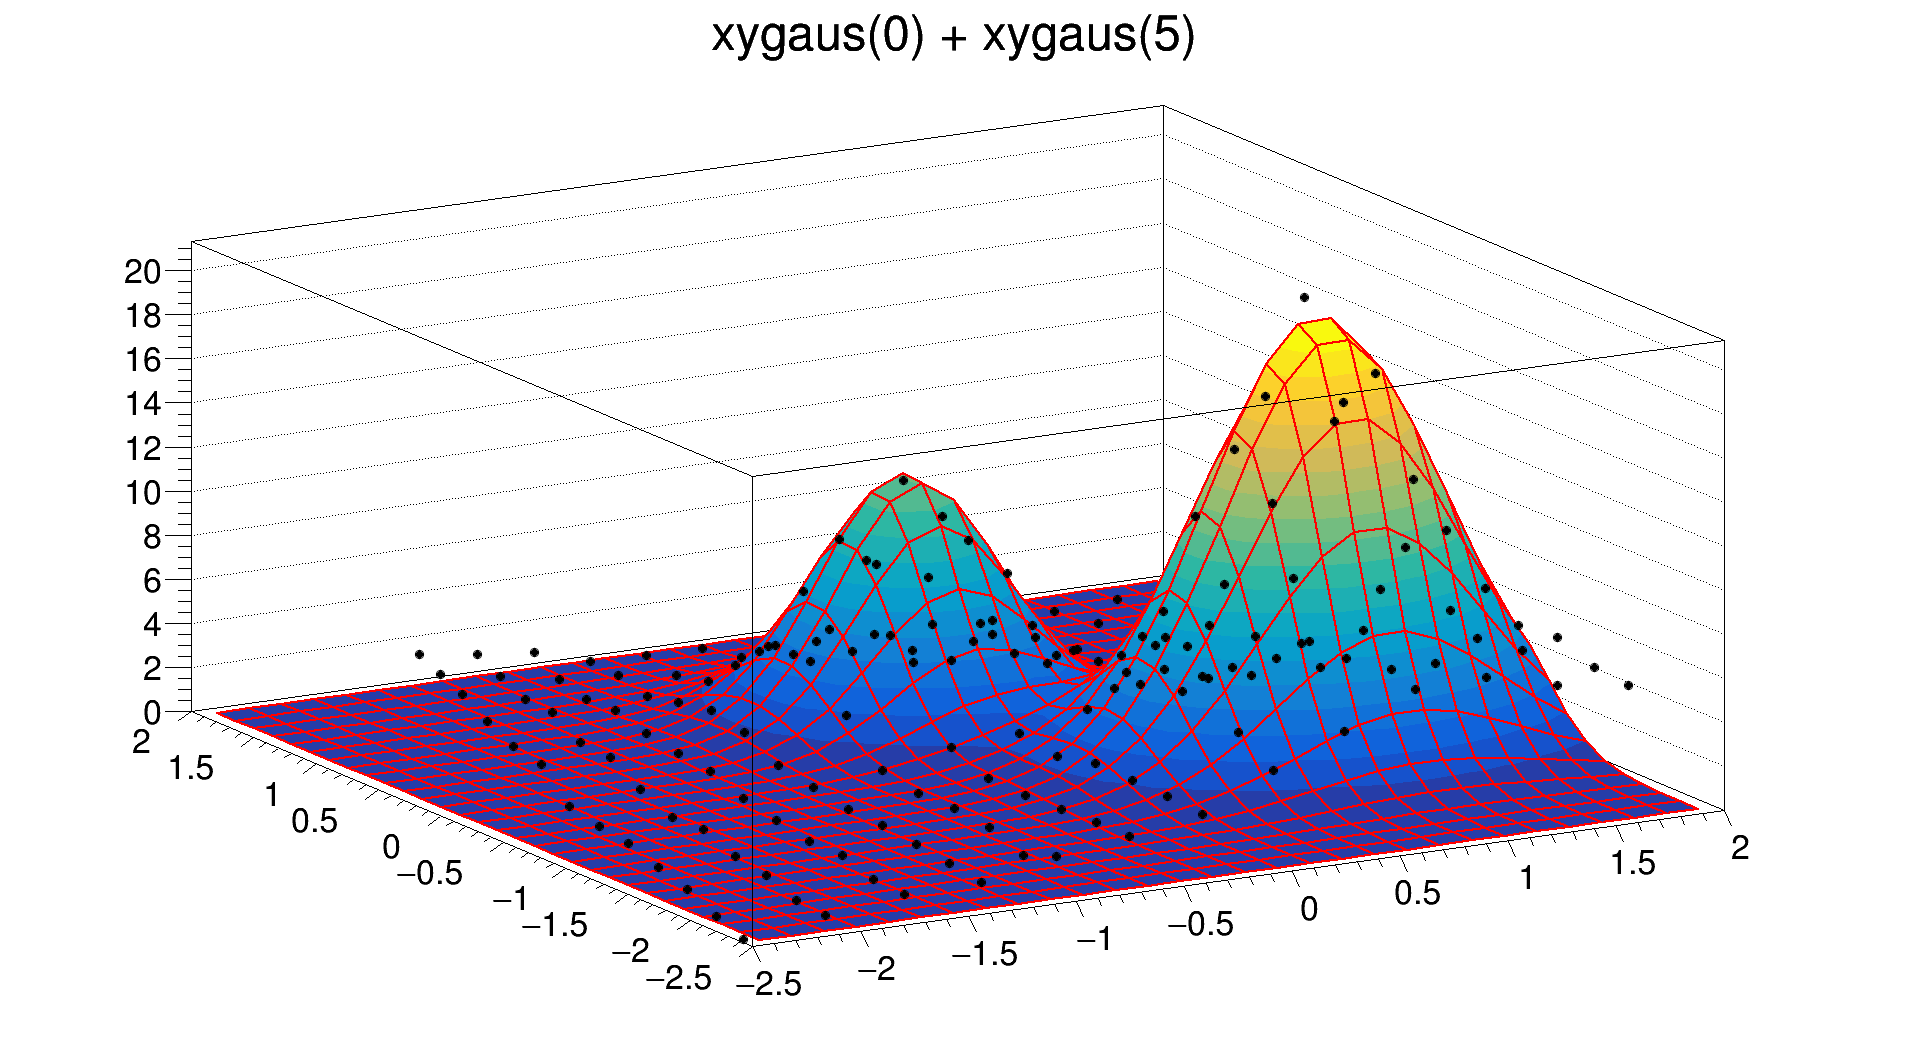
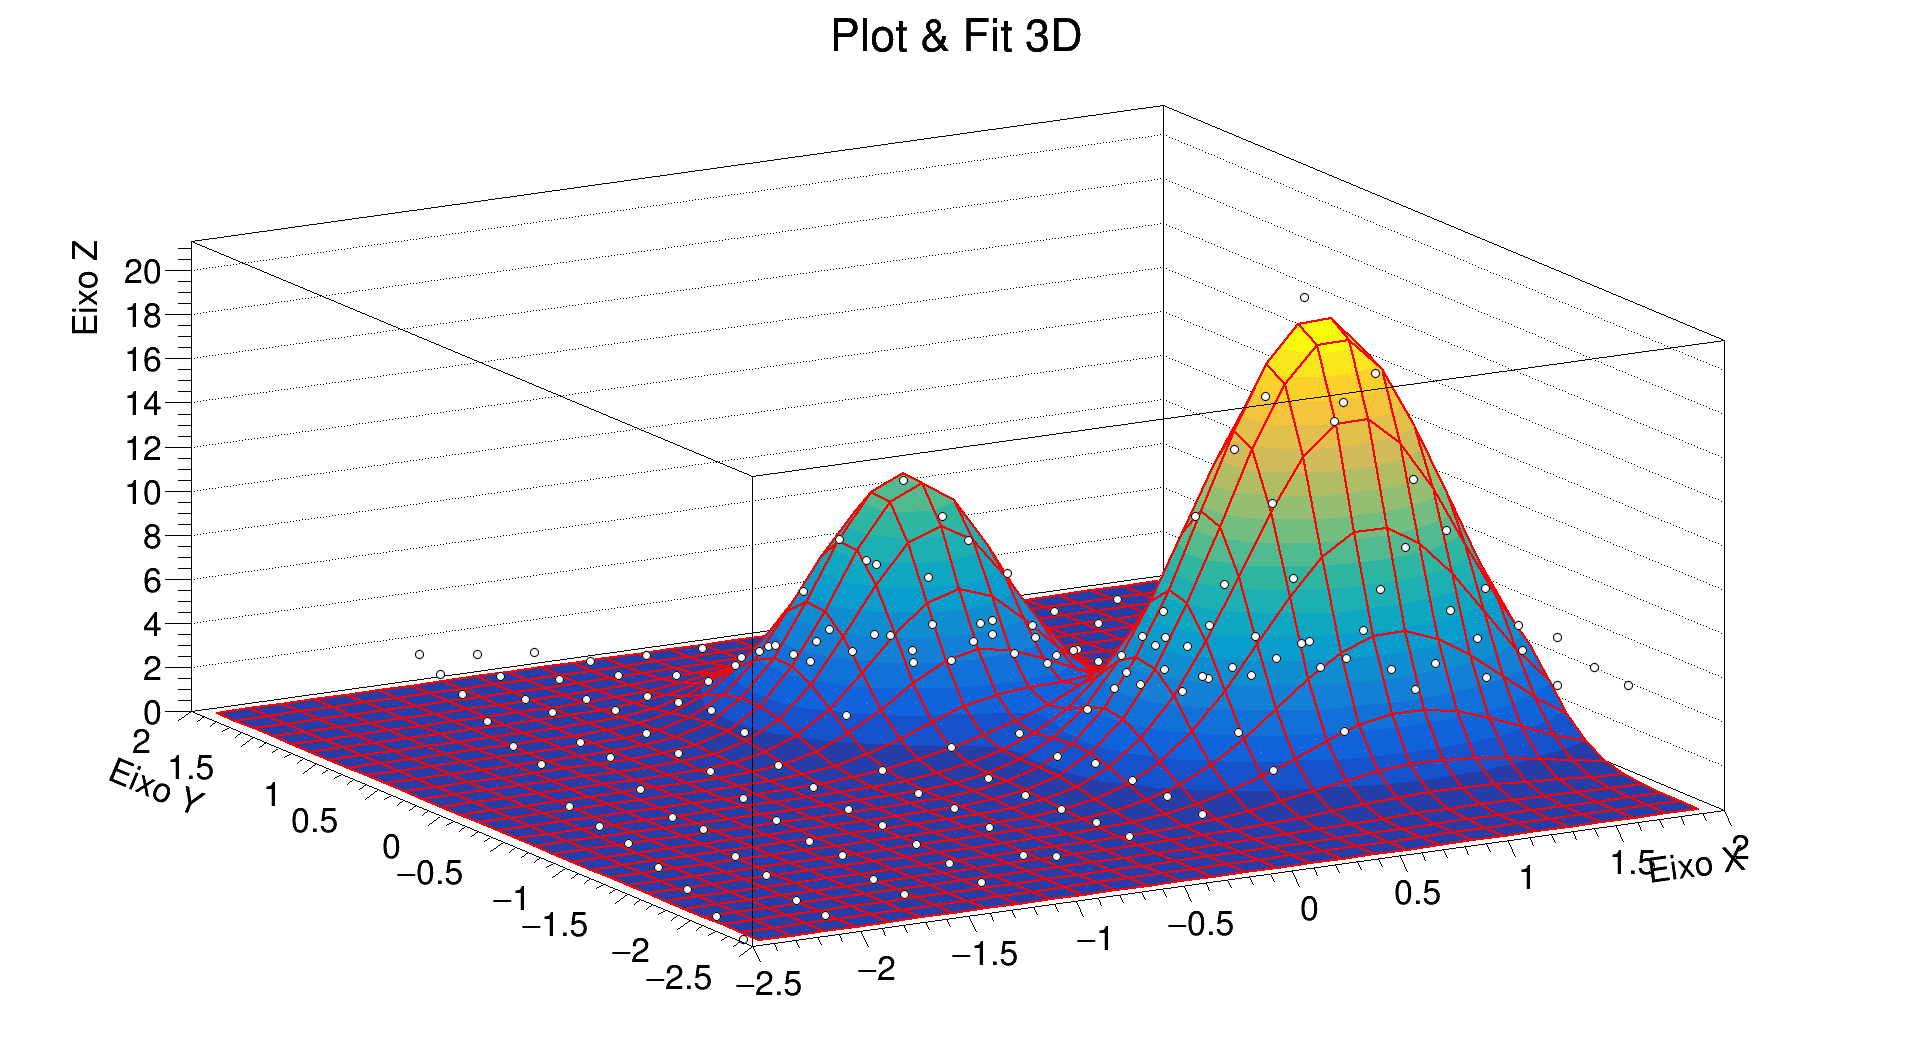
WorkShop ROOT NFIST 12/jan/2022

diff --git a/main/ex_MultiFit.cpp b/main/ex_MultiFit.cpp
@@ -1,0 +1,128 @@
+#include "ReadData.h"
+#include "TStyle.h"
+#include "TAxis.h"
+#include "TGraph.h"
+#include "TCanvas.h"
+#include "TF1.h"
+#include "TRootCanvas.h"
+#include "TApplication.h"
+#include "TGraphErrors.h"
+
+std::vector<double_t *> data_to_vectors(std::vector<std::vector<float>> data)
+{
+    std::vector<double_t *> data_return;
+    int n = data.size();
+    double_t x[n];
+    double_t y[n];
+    double_t ex[n];
+    double_t ey[n];
+
+    for (int i = 0; i < n; i++)
+    {
+        x[i] = data[i][0];
+        y[i] = data[i][1];
+        ex[i] = data[i][2];
+        ey[i] = data[i][3];
+    }
+    data_return.push_back(x);
+    data_return.push_back(y);
+    data_return.push_back(ex);
+    data_return.push_back(ey);
+    return data_return;
+}
+
+int main()
+{
+    ReadData Data1("PET1.txt");
+    ReadData Data2("PET2.txt");
+    ReadData Data3("PET3.txt");
+    auto data1 = Data1.GetData();
+    auto data2 = Data2.GetData();
+    auto data3 = Data3.GetData();
+
+    // Data 1
+    int n1 = data1.size();
+    double_t x1[n1];
+    double_t y1[n1];
+    double_t ex1[n1];
+    double_t ey1[n1];
+
+    for (int i = 0; i < n1; i++)
+    {
+        x1[i] = data1[i][0];
+        y1[i] = data1[i][1];
+        ex1[i] = data1[i][2];
+        ey1[i] = data1[i][3];
+    }
+
+    // Data 2
+    int n2 = data2.size();
+    double_t x2[n2];
+    double_t y2[n2];
+    double_t ex2[n2];
+    double_t ey2[n2];
+
+    for (int i = 0; i < n2; i++)
+    {
+        x2[i] = data2[i][0];
+        y2[i] = data2[i][1];
+        ex2[i] = data2[i][2];
+        ey2[i] = data2[i][3];
+    }
+
+    // Data 2
+    int n3 = data3.size();
+    double_t x3[n3];
+    double_t y3[n3];
+    double_t ex3[n3];
+    double_t ey3[n3];
+
+    for (int i = 0; i < n3; i++)
+    {
+        x3[i] = data3[i][0];
+        y3[i] = data3[i][1];
+        ex3[i] = data3[i][2];
+        ey3[i] = data3[i][3];
+    }
+
+    TGraphErrors *gr1 = new TGraphErrors(n1, x1, y1, ex1, ey1);
+    gr1->SetMarkerSize(2);
+    gr1->SetMarkerStyle(8);
+    gr1->SetMarkerColor(kRed);
+
+    TGraphErrors *gr2 = new TGraphErrors(n2, x2, y2, ex2, ey2);
+    gr2->SetMarkerSize(2.5);
+    gr2->SetMarkerStyle(39);
+    gr2->SetMarkerColor(kBlue);
+
+    TGraphErrors *gr3 = new TGraphErrors(n3, x3, y3, ex3, ey3);
+    gr3->SetMarkerSize(2.5);
+    gr3->SetMarkerStyle(43);
+    gr3->SetMarkerColor(kGreen);
+
+    gr1->GetXaxis()->SetLimits(-41, 41);
+
+    TCanvas c("canvas", "grafico", 200, 10, 1920, 1080);
+
+    TF1 *f1 = new TF1("f1", "gaus(0)", -20, 20);
+    f1->SetParameters(150, 0.1, 1);
+    f1->SetLineColor(kRed);
+    TF1 *f2 = new TF1("f2", "gaus(0)", -40, 0);
+    f2->SetParameters(140, -20, 5);
+    f2->SetLineColor(kBlue);
+    f2->SetParLimits(0, 130, 150);
+    TF1 *f3 = new TF1("f3", "gaus(0)", 0, 40);
+    f3->SetParameters(150, 20, 1);
+    f3->SetLineColor(kGreen);
+
+    gr1->Fit(f1);
+    gr2->Fit(f2);
+    gr3->Fit(f3);
+
+    gr1->Draw("AP");
+    gr2->Draw("same P");
+    gr3->Draw("same P");
+    c.Update();
+    c.SaveAs("MultiFit.png");
+    return 0;
+}

diff --git a/main/3dfit.cpp b/main/3dfit.cpp
@@ -1,5 +1,4 @@
 #include "ReadData.h"
-
 #include "TGraph2D.h"
 #include "TStyle.h"
 #include "TCanvas.h"
@@ -8,11 +7,6 @@
 #include "TRootCanvas.h"
 #include "TApplication.h"
 
-double function(double *x, double *par)
-{
-    double result = par[0] * exp(-0.5 * pow(((x[0] - par[1]) / par[2]), 2)) - 0.5 * pow(((x[1] - par[3]) / par[4]), 2) + par[5] * exp(-0.5 * pow(((x[0] - par[6]) / par[7]), 2)) - 0.5 * pow(((x[1] - par[8]) / par[9]), 2);
-    return result;
-}
 
 int main()
 {
@@ -36,17 +30,23 @@ int main()
     TCanvas *c = new TCanvas("canvas", "grafico", 200, 10, 1920, 1080);
 
     TGraph2D *gr = new TGraph2D(data.size(), x, y, z);
+    
     TF2 *f = new TF2("func", "xygaus(0) + xygaus(5)", -2.5, 2, -2.5, 2);
     f->SetParameters(20, 1, 0.4, -0.8, 0.4, 10, 0.1, 0.3, 0.6, 0.2);
-    auto param = f->GetParameters();
+    f->SetTitle("Plot & Fit 3D;Eixo X;Eixo Y; Eixo Z");
+
 
     gr->Fit(f);
- 
     gr->SetMarkerStyle(20);
+ 
+ 
+
     c->Update();
+
+    
     
     f->Draw("surf1");
-    gr->Draw("same P");
+    gr->Draw("same P0");
     c->SaveAs("tomografia.png");
     return 0;
 }
